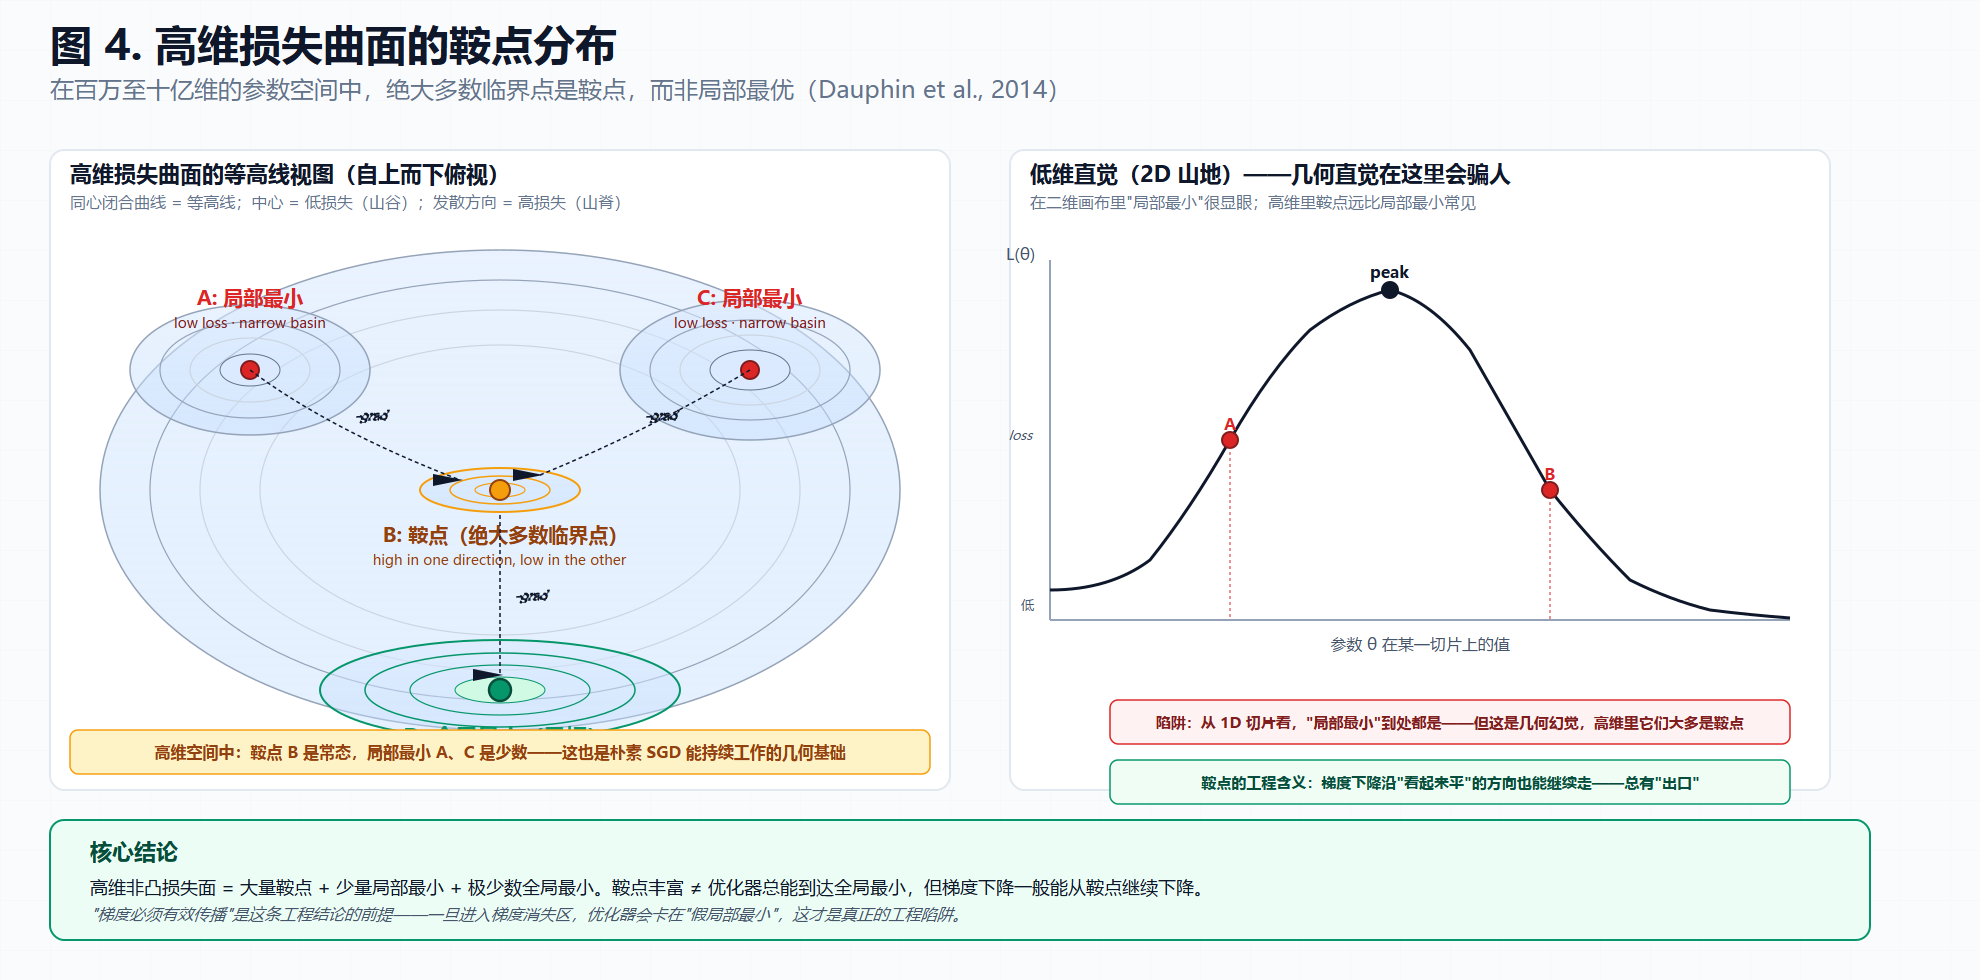
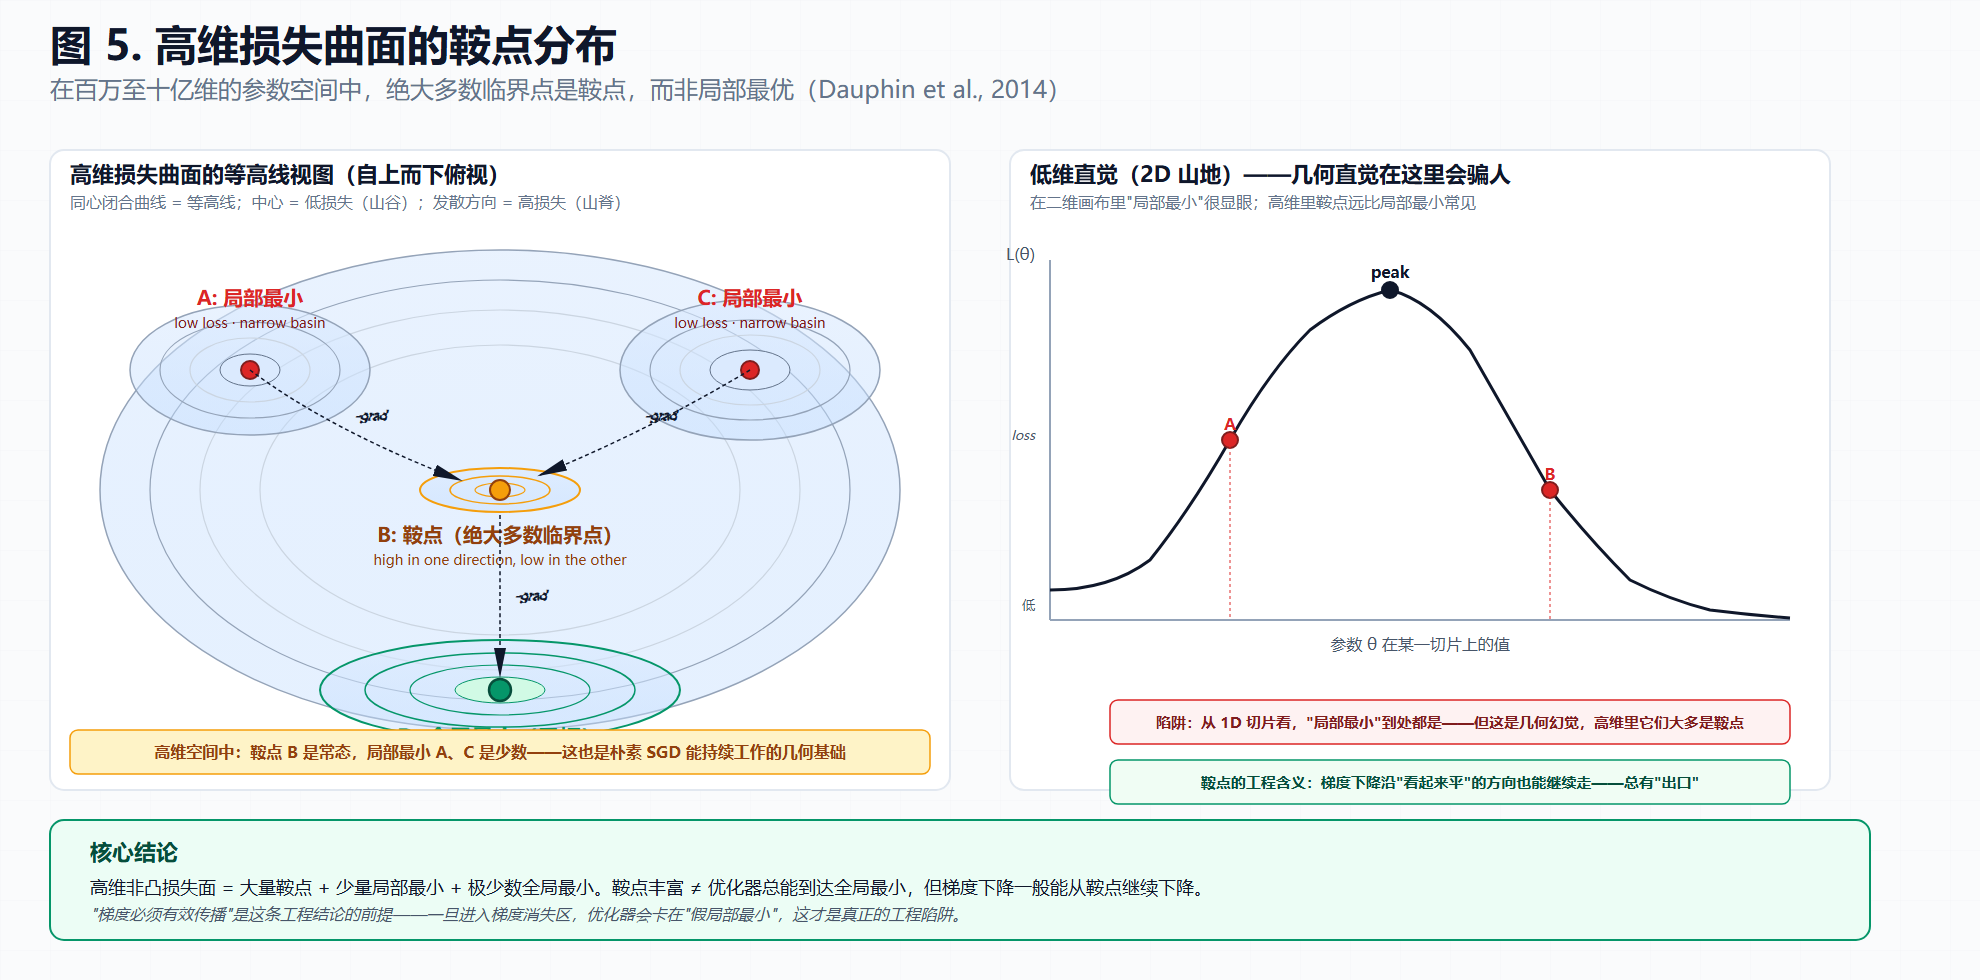
chore: 按文中出现顺序重排《深度学习的训练与评估》7 张插图编号。

diff --git a/02_基础理论学习/人工智能/01.学习笔记/深度学习的训练与评估.md b/02_基础理论学习/人工智能/01.学习笔记/深度学习的训练与评估.md
@@ -241,11 +241,11 @@ $$
 
 正如我们之前所说，神经网络在具体的工程实现中其实就是一张**可微的计算图**。这里的 "可微"，指的是计算图上每个节点（矩阵乘法、加法、激活函数）都可以对其输入求偏导。而我们用它训练 LLM 的目标则由最小化损失函数 $R(\theta)$ 来进行指导，具体方法就是在 $\Theta$ 这个高维空间中沿负梯度方向进行迭代。这在专业术语中被称为**梯度下降（Gradient Descent）**方法。同样的，本节接下来会先介绍优化器的数学原理，再沿 SGD 到 AdamW 的演化谱系展示它在工程化方面的应用，最后再将讨论落到梯度不稳定、优化不等于泛化等优化器在工程实现上的能力边界。
 
-整一个训练循环在工程实现上的骨架可以用下面这张流程图来概括（如图 6 所示）：
+整一个训练循环在工程实现上的骨架可以用下面这张流程图来概括（如图 3 所示）：
 
-![[06-flowchart-training-loop.svg]]
+![[03-flowchart-training-loop.svg]]
 
-**图 6** 训练循环流程图
+**图 3** 训练循环流程图
 
 正如读者所见，神经网络的训练过程是「前向传播 → 损失计算 → 反向传播 → 参数更新」四步之间的循环迭代，每次循环都让参数 θ 向使损失下降的方向前进一步；直至达到停止条件后，进入评估与诊断阶段，输出训练好的参数 θ*。这张图所展示的骨架，在本节「优化器的数学基础」与「演化谱系」两个小节中将被反复回扣——前两节会逐个击破骨架中的具体节点，最后一节则会回过头来讨论这张骨架本身的能力边界。
 
@@ -257,11 +257,11 @@ $$
 \theta_{t+1} = \theta_t - \eta \nabla_\theta \mathcal{L}_{\text{batch}}(\theta_t)
 $$
 
-其中，$\eta$ 是学习率，$\nabla_\theta \mathcal{L}_{\text{batch}}$ 是当前小批量数据上所执行的梯度估算。这条公式尽管看起来并不复杂，但关键在于*如何高效算出每个参数的梯度呢？* 对于这个问题，目前常用的解决方案是 **[[Transformer 架构详解|反向传播（Backpropagation）]]** 算法，即沿计算图反向调用链式法则，如图 3 所示。
+其中，$\eta$ 是学习率，$\nabla_\theta \mathcal{L}_{\text{batch}}$ 是当前小批量数据上所执行的梯度估算。这条公式尽管看起来并不复杂，但关键在于*如何高效算出每个参数的梯度呢？* 对于这个问题，目前常用的解决方案是 **[[Transformer 架构详解|反向传播（Backpropagation）]]** 算法，即沿计算图反向调用链式法则，如图 4 所示。
 
 ![反向传播算法的执行过程](./img/backprop.png)
 
-**图 3** 反向传播算法的执行过程
+**图 4** 反向传播算法的执行过程
 
 具体来说就是，若第 $l$ 层的输出 $h^{(l)}$ 取决于第 $l-1$ 层的输出 $h^{(l-1)}$，则根据链式法则，我们可以得到：
 
@@ -357,11 +357,11 @@ $$
 
 1. **优化 ≠ 泛化。**这是最重要的一条边界：*训练损失降得越低，测试表现未必越好*。这条边界的根源是经验风险的极小点并不等于真实风险的极小点。优化器把 $\theta$ 带到训练损失最低的位置，但训练数据只是真实分布的一个有偏样本。在这个位置，模型可能"完美拟合了训练数据中的噪声"，却把未见样本的判别能力丢了，这就是过拟合。深度学习中的过拟合不是单一现象：它可能来自数据不足（特征相对样本数过多）、参数过多（表达能力过强）、训练时间过长（被噪声牵着走）。任何调优手段都只能"延缓"过拟合的发生，不能"消灭"它。一旦把优化与泛化当作一件事来处理，工程上会反复陷入"训练集完美 → 测试集崩盘"的死循环。
 
-2. **鞍点比局部最优更常见。**优化器在 $\Theta$ 这个高维空间里走的是局部路径，每一步只看自己当前点的梯度。这让人担心会不会卡在局部最优。事实上，Dauphin 等人 2014 年的研究指出：在高维非凸损失面上，*绝大多数临界点不是局部最优，而是鞍点*，形象地说，损失曲面更像一片有褶皱的山地，每个山坳都是一个 "出口"，真正的局部最优反而稀少。这意味着梯度下降一般能持续走出"看起来平"的地方，找到更好的位置。但这个结论有个前提：*梯度必须有效传播*。一旦进入 "梯度消失区"，优化器看到的全是接近零的梯度，会误以为已收敛，这其实是"假局部最优"，是前述 "梯度不稳定" 小节中激活函数失效在优化阶段的体现。鞍点丰富这一事实，对深度学习是"半个好消息"，它解释了为什么朴素 SGD 在大多数任务上不至于彻底失败。这一损失曲面的高维几何形态如图 4 所示。
+2. **鞍点比局部最优更常见。**优化器在 $\Theta$ 这个高维空间里走的是局部路径，每一步只看自己当前点的梯度。这让人担心会不会卡在局部最优。事实上，Dauphin 等人 2014 年的研究指出：在高维非凸损失面上，*绝大多数临界点不是局部最优，而是鞍点*，形象地说，损失曲面更像一片有褶皱的山地，每个山坳都是一个 "出口"，真正的局部最优反而稀少。这意味着梯度下降一般能持续走出"看起来平"的地方，找到更好的位置。但这个结论有个前提：*梯度必须有效传播*。一旦进入 "梯度消失区"，优化器看到的全是接近零的梯度，会误以为已收敛，这其实是"假局部最优"，是前述 "梯度不稳定" 小节中激活函数失效在优化阶段的体现。鞍点丰富这一事实，对深度学习是"半个好消息"，它解释了为什么朴素 SGD 在大多数任务上不至于彻底失败。这一损失曲面的高维几何形态如图 5 所示。
 
     ![高维损失曲面的鞍点分布](./img/loss_landscape.png)
 
-    **图 4** 高维损失曲面的鞍点分布
+    **图 5** 高维损失曲面的鞍点分布
 
 3. **大模型训练损失不收敛不等于效果差。**在小模型时代，不收敛意味着代码 bug 或超参数灾难。但在大模型时代，*训练损失的不收敛在某些特定设置下是正常的、甚至是必要的*。一个值得注意的现象是：当模型规模逼近数据量约束时（即所谓过训练），继续训练有时会导致验证损失先降后稳甚至回升，而训练损失仍在持续下降——这种训练与验证之间的剪刀差在传统 ML 中是过拟合的典型信号，但在大模型场景下，下游任务的表现仍可能继续改善。这个反直觉的现象说明：*训练损失的数值变化，已经不再是模型质量的有效指标*：评估必须看下游任务的实际表现。这是评估方法论从看损失曲线转向看评测基准的根本原因，也是接下来的这一节要展开的核心议题。而关于 Chinchilla 与规模化定律的进一步细节，将会在 "调优策略" 这一节中系统讨论（其在 AI 研究方法谱系中的位置，参见 [[AI 研究方法的演变]] 中的相关章节）。
 
@@ -471,11 +471,11 @@ $$
 
 在前述"训练动力学"一节中，我们看到过拟合与欠拟合是训练曲线上剪刀差或高台的不同形态。本节沿"数学框架 → 典型应用 → 暴露的边界"展开：先用偏差-方差分解给出调优的理论坐标，再沿数据、模型、训练三个层面展示工程上的调优手段，最后落到收益递减、调优无法跨越目标缝隙、调优 vs 重设计等绕不开的边界。
 
-当模型效果不理想时，从哪个环节入手调优，是这一节要回答的核心工程问题，下面的决策树把这一判断路径可视化（如图 7 所示）：
+当模型效果不理想时，从哪个环节入手调优，是这一节要回答的核心工程问题，下面的决策树把这一判断路径可视化（如图 6 所示）：
 
-![[07-flowchart-tuning-decision-tree.svg]]
+![[06-flowchart-tuning-decision-tree.svg]]
 
-**图 7** 调优决策树
+**图 6** 调优决策树
 
 正如读者所见，当模型效果不理想时，先按训练集 / 验证集 / 测试集的表现把问题分到偏差、方差、分布偏移、指标偏差四类，再回到数据、模型、训练三个层面选取具体的调优手段。这一决策树将作为本节「理论坐标 → 三层面调优手段 → 暴露的边界」三段式论述的全局索引。
 
@@ -540,13 +540,13 @@ $$
 
 **模型规模选择：Chinchilla 与规模化定律（Scaling Laws）**是 LLM 时代最重要的工程经验法则。早期研究者相信"模型越大越好"，但 2022 年 DeepMind 的 Chinchilla 工作指出：**给定固定计算预算，存在一个最优的模型规模与训练数据量配比**：经验上每个模型参数约对应 20 个训练 token（tokens-per-parameter ≈ 20:1）。Chinchilla 工作重新训练了一个 70B 模型（Chinchilla）用 1.4 万亿 token，发现它在相同算力下性能显著优于参数更大的 Gopher-280B，这直接挑战了"参数越大越好"的工程直觉，意味着很多"大模型"实际上**欠训练于数据**：给同样多的算力，更小但训练更充分的模型会更好。**Scaling Laws**（规模化定律）描述模型能力如何随参数、数据、计算量增长，经验上服从幂律。
 
-这条发现改变了 LLM 训练的算力分配方式：设计新模型时，先用 Scaling Laws 估算"这个规模的模型在合理数据量下能达到什么能力"，再决定是否值得投入。这一幂律关系在算力-性能平面上的形态如图 5 所示。
+这条发现改变了 LLM 训练的算力分配方式：设计新模型时，先用 Scaling Laws 估算"这个规模的模型在合理数据量下能达到什么能力"，再决定是否值得投入。这一幂律关系在算力-性能平面上的形态如图 7 所示。
 
 需要指出的是：20:1 比例是 Hoffmann et al.（2022）在**算力最优**条件下得出的结论——固定算力下，让模型规模与数据规模同步增长最优。但在推理成本主导的实际场景中，业界普遍采用"过度训练"（over-train）策略：Llama-2 7B 用了约 2T tokens（约 286 tokens/param），Llama-3 8B 用了约 15.6T tokens（约 1950 tokens/param），用更大的数据量"喂饱"较小模型以降低推理成本。这意味着 20:1 的工程经验要在具体场景下重新校准。
 
 ![规模化定律：模型能力随算力的幂律关系](./img/scaling_laws.png)
 
-**图 5** 规模化定律：模型能力随算力的幂律关系
+**图 7** 规模化定律：模型能力随算力的幂律关系
 
 **预训练 + 微调范式**是 LLM 时代的主导流程。先在大规模通用数据上预训练一个基础模型，再用特定任务的少量数据微调。这种范式把 "通用能力" 和 "任务专精" 分离开来，*基础模型承担数据密集的学习成本，下游用户承担任务专精的少量成本*。这是 LLM 能够被广泛部署的关键工程创新，也是《[[AI 研究方法的演变]]》中 "基础模型" 这个概念得以成立的具体技术基础。
 
